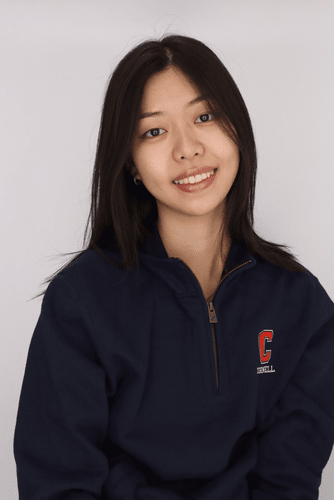
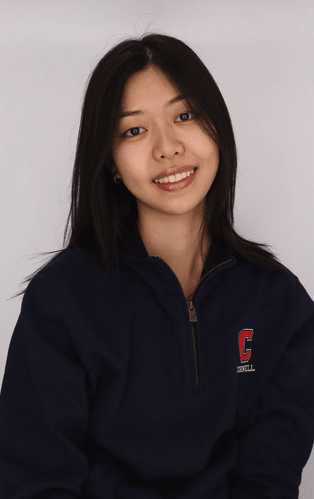
Edited site.css and home-image.png

diff --git a/public/styles/site.css b/public/styles/site.css
@@ -16,7 +16,7 @@
 * {
     margin: 0px;
     padding: 0px;
-    
+
     box-sizing: border-box;
     font-family: Source-Code-Pro, sans-serif !important;
 }
@@ -72,7 +72,7 @@ body {
 }
 
 .home-content h2 {
-    font-size: 32px;
+    font-size: 36px;
 }
 
 .home-content p {
@@ -80,11 +80,15 @@ body {
     margin-bottom: 25px;
 }
 
+.content-img {
+    display: none;
+}
+
 .home-item img {
     display: block;
 
     margin-right: auto;
-    margin-left: 50px;
+    margin-left: 70px;
     padding-right: 20px;
 
     animation-name: fade-in;
@@ -122,7 +126,7 @@ nav {
 }
 
 .nav-heading a:hover {
-    color: var(--theme-color-active);
+    color: var(--theme-color-hover);
 }
   
 .nav-pages {
@@ -139,6 +143,9 @@ nav {
 
 .nav-pages a {
     color: inherit;
+
+    margin-left: 2.5px;
+    margin-right: 2.5px;
 
     text-decoration: none;
     font-size: 16px;
@@ -161,17 +168,6 @@ nav {
 }
 
 @media (max-width: 825px) {
-    .home-content {
-        margin-right: 30px;
-        max-width: 475px;
-    }
-
-    .home-item img {
-        margin-left: 30px;
-    }
-}
-
-@media (max-width: 775px) {
     nav {
         padding-top: 1.5em;
         flex-direction: column;
@@ -181,25 +177,36 @@ nav {
         padding-top: 1em;
     }
 
+    .home-flex {
+        flex-direction: column;
+    }
+
     .home-content {
         margin-left: auto;
         margin-right: auto;
         padding-left: 30px;
         padding-right: 30px;
+        padding-bottom: 30px;
 
         max-width: 600px;
-    }
-
-    .home-item {
-        flex-basis: auto;
-
         width: auto;
+
+        order: 2;
     }
 
-    .home-item img {
-        display: none;
+    .home-img {
+        width: 100%;
+        padding: 0;
+        margin: 0;
 
-        flex-basis: 0;
+        order: 1;
+    }
+
+    .home-img img {
+        margin: auto;
+        padding: 0;
+        padding-bottom: 50px;
+        width: 200px;
     }
 }
 
